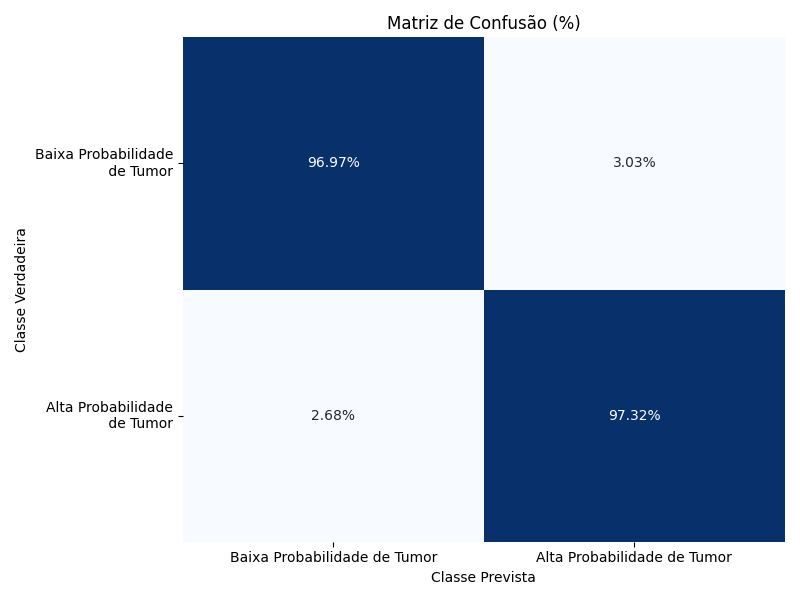
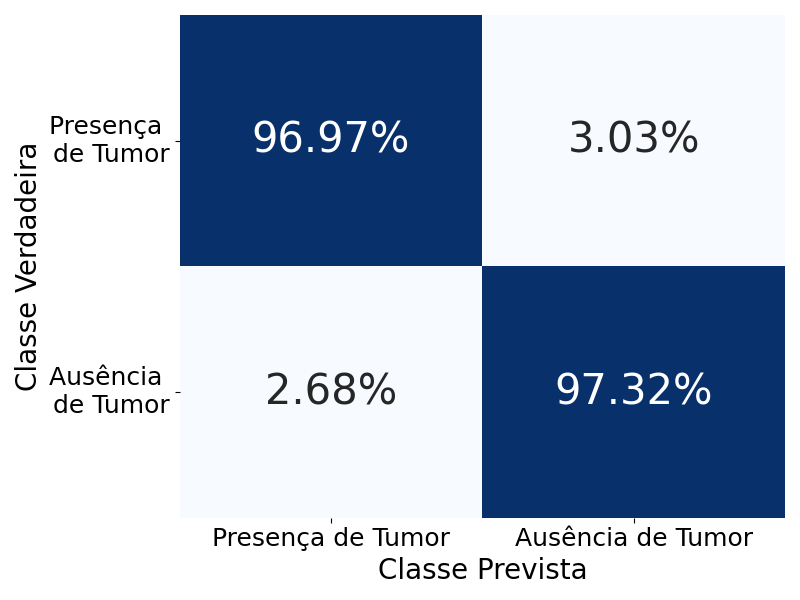
Ajust in the train model

diff --git a/core/IA/test_model.py b/core/IA/test_model.py
@@ -19,8 +19,8 @@ total = 0
 true_labels = []
 pred_labels = []
 pred_scores = []
-class_labels_pt = ['Baixa Probabilidade de Tumor', 'Alta Probabilidade de Tumor']
-pred_labels_pt = ['Baixa Probabilidade\n de Tumor', 'Alta Probabilidade\n de Tumor']
+class_labels_pt = ['Presença de Tumor', 'Ausência de Tumor']
+pred_labels_pt = ['Presença \nde Tumor', 'Ausência \nde Tumor']
 
 # Test loader
 test_loader = torch.utils.data.DataLoader(dataset_test, batch_size=BATCH_SIZE, shuffle=True)
@@ -67,13 +67,15 @@ conf_matrix_percent = conf_matrix.astype('float') / conf_matrix.sum(axis=1)[:, n
 df_cm = pd.DataFrame(conf_matrix_percent, index=pred_labels_pt, columns=class_labels_pt)
 fmt_values = np.vectorize(lambda x: f"{x:.2f}%")(conf_matrix_percent)
 plt.figure(figsize=(8, 6))
-sns.heatmap(df_cm, annot=fmt_values, fmt='', cmap='Blues', cbar=False)
+sns.heatmap(df_cm, annot=fmt_values, fmt='', cmap='Blues', cbar=False, annot_kws={"fontsize": 30})
 
-plt.title("Matriz de Confusão (%)")
-plt.ylabel("Classe Verdadeira") 
-plt.xlabel("Classe Prevista")
-plt.xticks(rotation=0)
-plt.yticks(rotation=0)
+plt.ylabel("Classe Verdadeira", fontsize=20)
+plt.xlabel("Classe Prevista", fontsize=20)
+
+# Rótulos dos ticks
+plt.xticks(fontsize=18, rotation=0)
+plt.yticks(fontsize=18, rotation=0)
+
 plt.tight_layout()
 plt.savefig("matriz_confusao_percentual.png")
 plt.show()
@@ -86,7 +88,7 @@ if set(true_bin) == {1, 2}:
 fpr, tpr, _ = roc_curve(true_bin, pred_scores)
 roc_auc = auc(fpr, tpr)
 
-print(f"AUC: {roc_auc:.2f}")
+
 # Plot ROC
 plt.figure()
 plt.plot(fpr, tpr, label=f'AUC = {roc_auc:.2f}')

diff --git a/core/IA/views.py b/core/IA/views.py
@@ -29,7 +29,7 @@ class IATestImage(generics.GenericAPIView):
         sleep(1)
 
         # Classes names
-        class_names = ['Possui Câncer', 'Não Possui Câncer'] 
+        class_names = ['Presença de Tumor', 'Ausência de Tumor'] 
 
         # CNN Model Instance	
         cnn = CNN()
